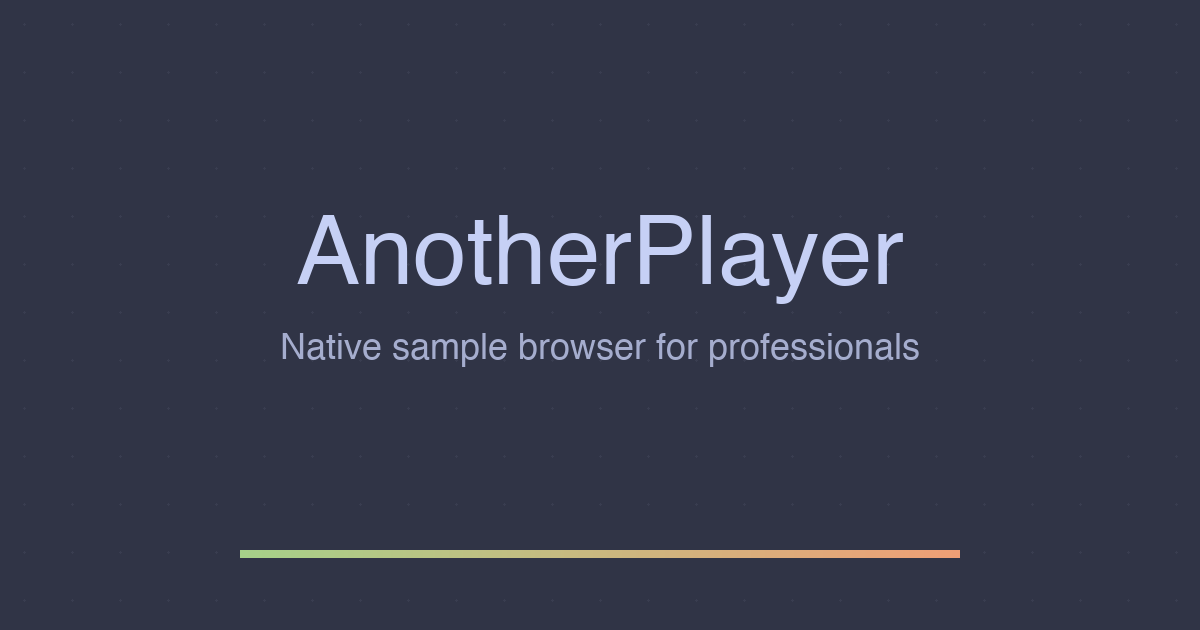
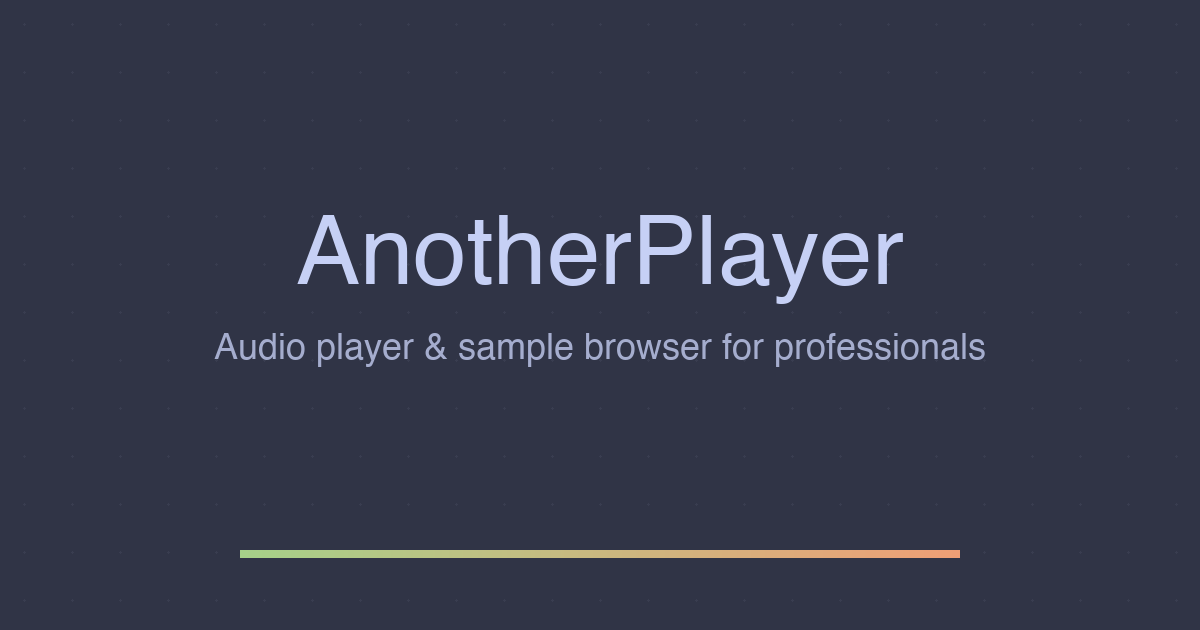
feat: [site] 타이틀에 'audio player' 편입 — 일반 오디오 플레이어 검색 노출
사용자 목표 = "온갖 음원 플레이어 찾는 사람들에게도 보이도록".
타이틀이 가장 강력한 레버인데 'sample browser' 만 있어 일반 검색에 안 걸렸다.

- title / og:title / twitter:title / *:image:alt 5곳 일관 갱신
  "Native sample browser for professionals" (63자, Google 픽셀 폭에서 잘림)
  → "Pro audio player & sample browser" (49자, 잘림 없음)
  'pro audio' 는 업계 검색어 자체라 짧아지면서 키워드는 늘었다.
  raw & → &amp; (HTML 엔티티, 파서/검증기 대응)

- 문구가 갈리지 않게 stale 사본 전부 동기화 (짝 문서 룰):
  og-image.png 부제 (SNS 카드에 구워짐 — 재생성) · site.webmanifest ·
  scripts/template.html → pricing/privacy/terms/refund 재생성

- h1 은 보존 (브랜딩 문장 + 히어로 2줄 구성). 대신 바로 아래 subhead 에
  "A native audio player and sample browser" 로 키워드 확보 — 같은 효과,
  디자인 리스크 0.

브랜드 희석 우려는 재검토 결과 과대평가였다 — 브랜드 엔티티 신호는 JSON-LD
WebSite/Organization 과 외부 링크에서 나오고, 브랜드명이 타이틀 맨 앞에 그대로 있다.

Changed region(s): [[0.185, 0.5127, 0.8325, 0.573]]

diff --git a/index.html b/index.html
@@ -12,7 +12,7 @@
         content="interest-cohort=(), browsing-topics=(), geolocation=(), camera=(), microphone=(), payment=()">
 
   <!-- SEO core -->
-  <title>AnotherPlayer — Native sample browser for professionals</title>
+  <title>AnotherPlayer — Pro audio player &amp; sample browser</title>
   <meta name="description" content="Native audio player and sample browser for sound designers and producers. Gapless loops, instant search, drag into any DAW — and it shrinks to a mini player. Free, Mac and Windows.">
   <meta name="keywords" content="audio player, mini player, compact audio player, lightweight music player, sample browser, waveform preview, audio preview, sound design, music production, DAW, gapless loop, sample-accurate, MP3 WAV FLAC OGG player, Mac, Windows, free">
   <meta name="author" content="Binbox Games">
@@ -24,21 +24,21 @@
   <!-- Open Graph -->
   <meta property="og:type" content="website">
   <meta property="og:site_name" content="AnotherPlayer">
-  <meta property="og:title" content="AnotherPlayer — Native sample browser for professionals">
+  <meta property="og:title" content="AnotherPlayer — Pro audio player &amp; sample browser">
   <meta property="og:description" content="Gapless loops, instant search across every disk, drag into any DAW — and it shrinks to a mini player. Free for everyone — Mac and Windows.">
   <meta property="og:url" content="https://anotherplayer.com/">
   <meta property="og:image" content="https://anotherplayer.com/og-image.png">
   <meta property="og:image:width" content="1200">
   <meta property="og:image:height" content="630">
-  <meta property="og:image:alt" content="AnotherPlayer — Native sample browser for professionals">
+  <meta property="og:image:alt" content="AnotherPlayer — Pro audio player &amp; sample browser">
   <meta property="og:locale" content="en_US">
 
   <!-- Twitter Card -->
   <meta name="twitter:card" content="summary_large_image">
-  <meta name="twitter:title" content="AnotherPlayer — Native sample browser for professionals">
+  <meta name="twitter:title" content="AnotherPlayer — Pro audio player &amp; sample browser">
   <meta name="twitter:description" content="Gapless loops, instant search across every disk, drag into any DAW — and it shrinks to a mini player. Free for everyone — Mac and Windows.">
   <meta name="twitter:image" content="https://anotherplayer.com/og-image.png">
-  <meta name="twitter:image:alt" content="AnotherPlayer — Native sample browser for professionals">
+  <meta name="twitter:image:alt" content="AnotherPlayer — Pro audio player &amp; sample browser">
 
   <!-- Icons -->
   <link rel="icon" type="image/png" sizes="32x32" href="favicon.png">
@@ -124,7 +124,7 @@
         Native sample browser.
       </h1>
       <p class="hero-subhead">
-        Built for sound designers, producers, and composers.
+        A native audio player and sample browser, built for sound designers, producers, and composers.
       </p>
       <a id="cta" class="cta" href="/pricing">
         <span class="cta-arrow" aria-hidden="true">&darr;</span>

diff --git a/pricing/index.html b/pricing/index.html
@@ -4,7 +4,7 @@
 <meta charset="UTF-8">
 <meta name="viewport" content="width=device-width, initial-scale=1">
 <title>Pricing — AnotherPlayer</title>
-<meta name="description" content="AnotherPlayer — Native sample browser. Built for professionals.">
+<meta name="description" content="AnotherPlayer — Pro audio player and sample browser. Built for professionals.">
 <meta name="theme-color" content="#303446">
 <meta name="color-scheme" content="dark">
 <link rel="icon" type="image/png" sizes="32x32" href="/favicon.png">

diff --git a/privacy/index.html b/privacy/index.html
@@ -4,7 +4,7 @@
 <meta charset="UTF-8">
 <meta name="viewport" content="width=device-width, initial-scale=1">
 <title>Privacy Policy — AnotherPlayer</title>
-<meta name="description" content="AnotherPlayer — Native sample browser. Built for professionals.">
+<meta name="description" content="AnotherPlayer — Pro audio player and sample browser. Built for professionals.">
 <meta name="theme-color" content="#303446">
 <meta name="color-scheme" content="dark">
 <link rel="icon" type="image/png" sizes="32x32" href="/favicon.png">

diff --git a/refund/index.html b/refund/index.html
@@ -4,7 +4,7 @@
 <meta charset="UTF-8">
 <meta name="viewport" content="width=device-width, initial-scale=1">
 <title>Refund Policy — AnotherPlayer</title>
-<meta name="description" content="AnotherPlayer — Native sample browser. Built for professionals.">
+<meta name="description" content="AnotherPlayer — Pro audio player and sample browser. Built for professionals.">
 <meta name="theme-color" content="#303446">
 <meta name="color-scheme" content="dark">
 <link rel="icon" type="image/png" sizes="32x32" href="/favicon.png">

diff --git a/scripts/template.html b/scripts/template.html
@@ -4,7 +4,7 @@
 <meta charset="UTF-8">
 <meta name="viewport" content="width=device-width, initial-scale=1">
 <title>{{title}}</title>
-<meta name="description" content="AnotherPlayer — Native sample browser. Built for professionals.">
+<meta name="description" content="AnotherPlayer — Pro audio player and sample browser. Built for professionals.">
 <meta name="theme-color" content="#303446">
 <meta name="color-scheme" content="dark">
 <link rel="icon" type="image/png" sizes="32x32" href="/favicon.png">

diff --git a/terms/index.html b/terms/index.html
@@ -4,7 +4,7 @@
 <meta charset="UTF-8">
 <meta name="viewport" content="width=device-width, initial-scale=1">
 <title>Terms of Service — AnotherPlayer</title>
-<meta name="description" content="AnotherPlayer — Native sample browser. Built for professionals.">
+<meta name="description" content="AnotherPlayer — Pro audio player and sample browser. Built for professionals.">
 <meta name="theme-color" content="#303446">
 <meta name="color-scheme" content="dark">
 <link rel="icon" type="image/png" sizes="32x32" href="/favicon.png">

diff --git a/build-assets.py b/build-assets.py
@@ -81,7 +81,7 @@ def build_og_image(out_path):
 
     # Subhead
     sub_font = ImageFont.truetype(FONT_REGULAR, 36)
-    sub = "Native sample browser for professionals"
+    sub = "Audio player & sample browser for professionals"
     sb = draw.textbbox((0, 0), sub, font=sub_font)
     sw = sb[2] - sb[0]
     sx = (W - sw) // 2